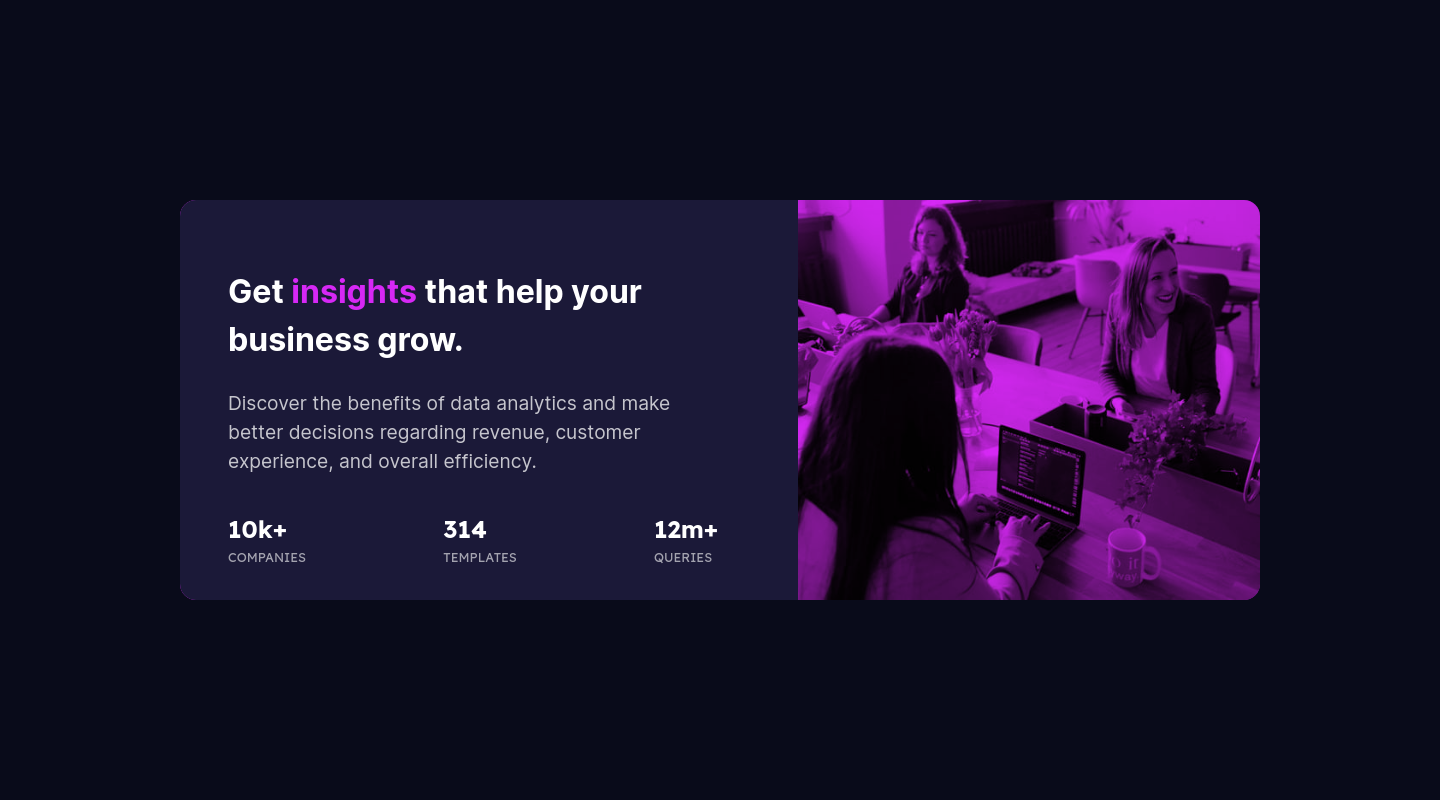
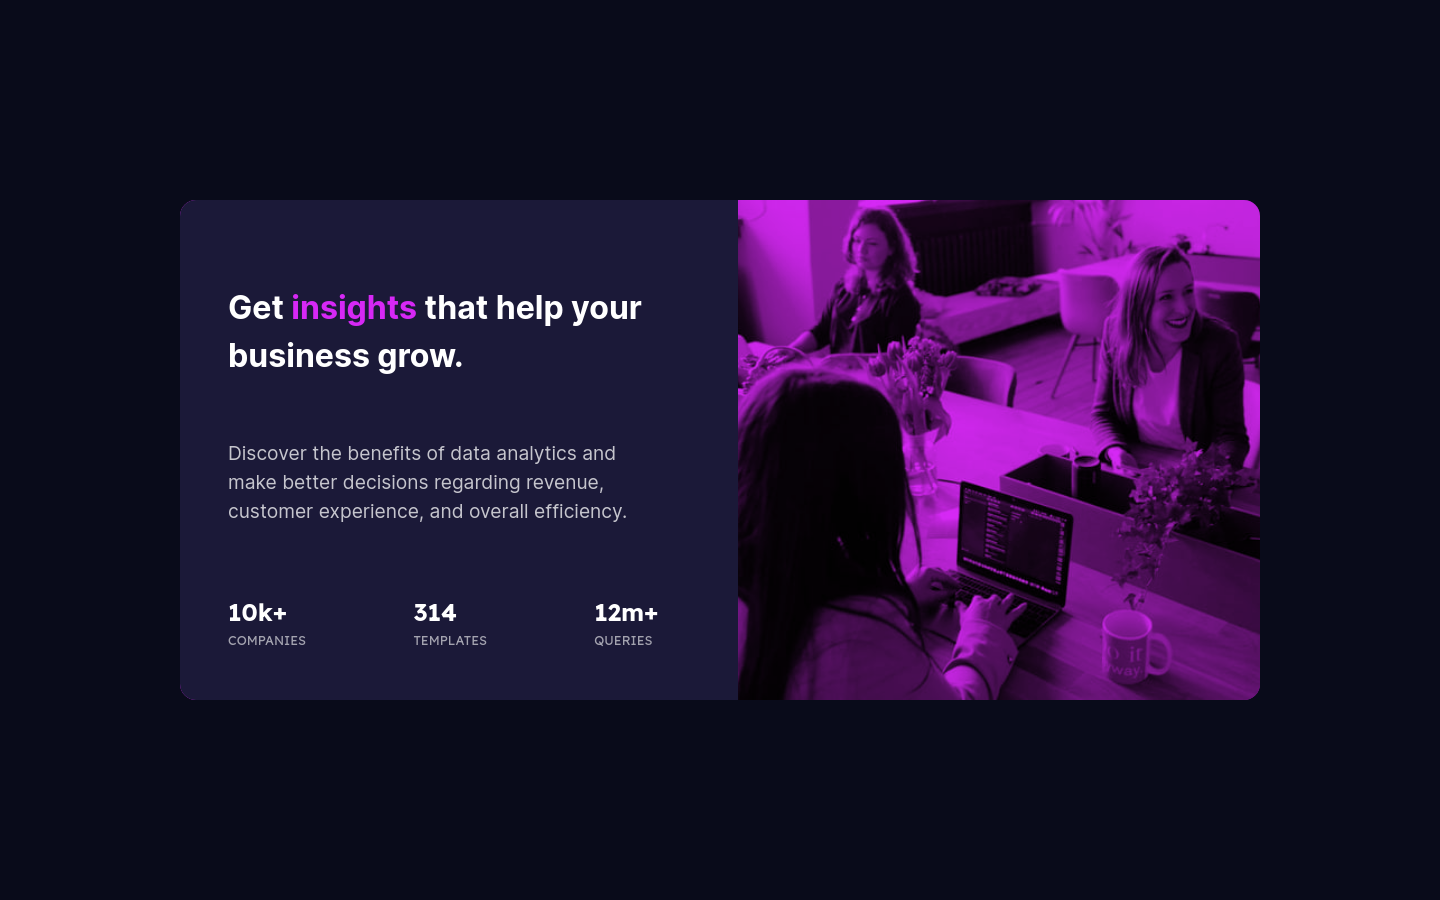
upd screeshots, container height 500px @screen 920

diff --git a/styles.css b/styles.css
@@ -123,7 +123,7 @@ article .summary {
     display: flex;
     align-items: stretch;
     max-width: 1080px;
-    height: 50vh;
+    height: 500px;
   }
   .img-wrapper {
     order: 2;
@@ -150,6 +150,7 @@ article .summary {
     height: 100%;
   }
   img {
-    height: 100%;
+    object-fit: cover;
+    min-height: 100%;
   }
 }
